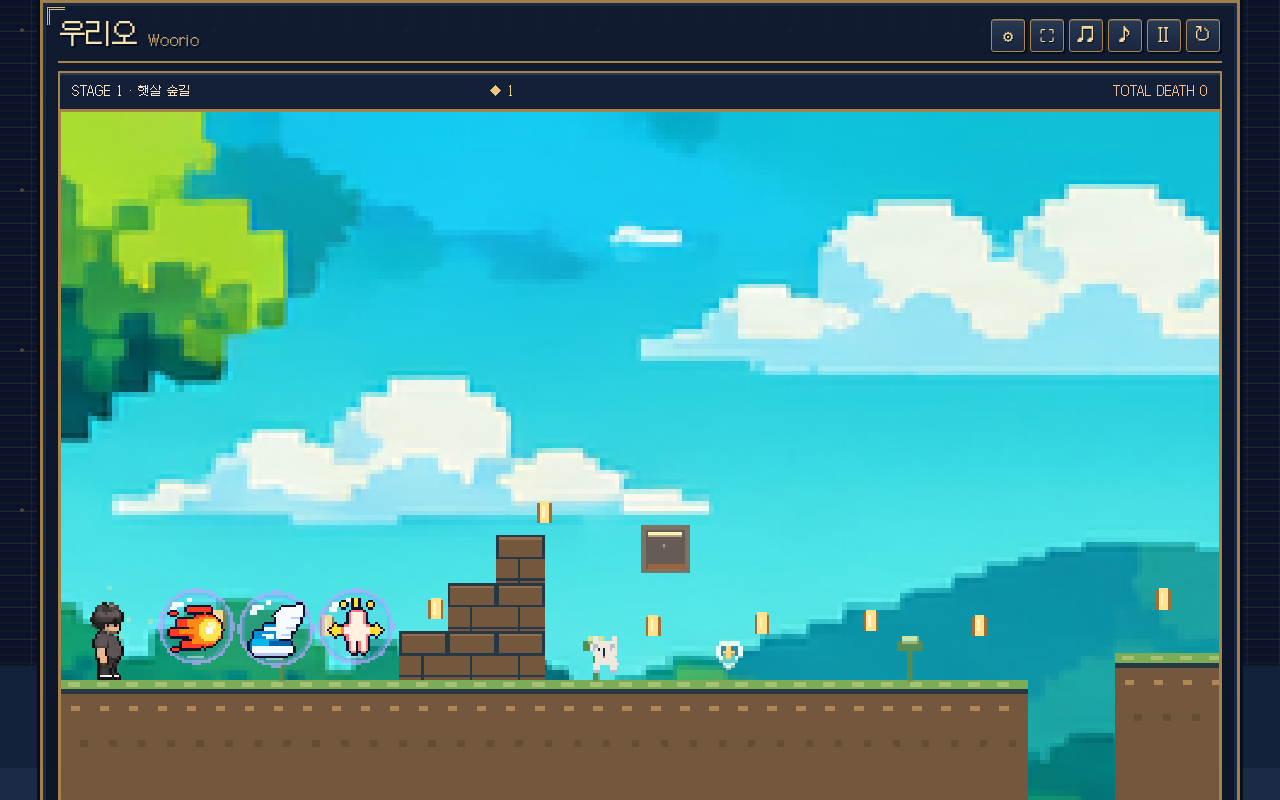
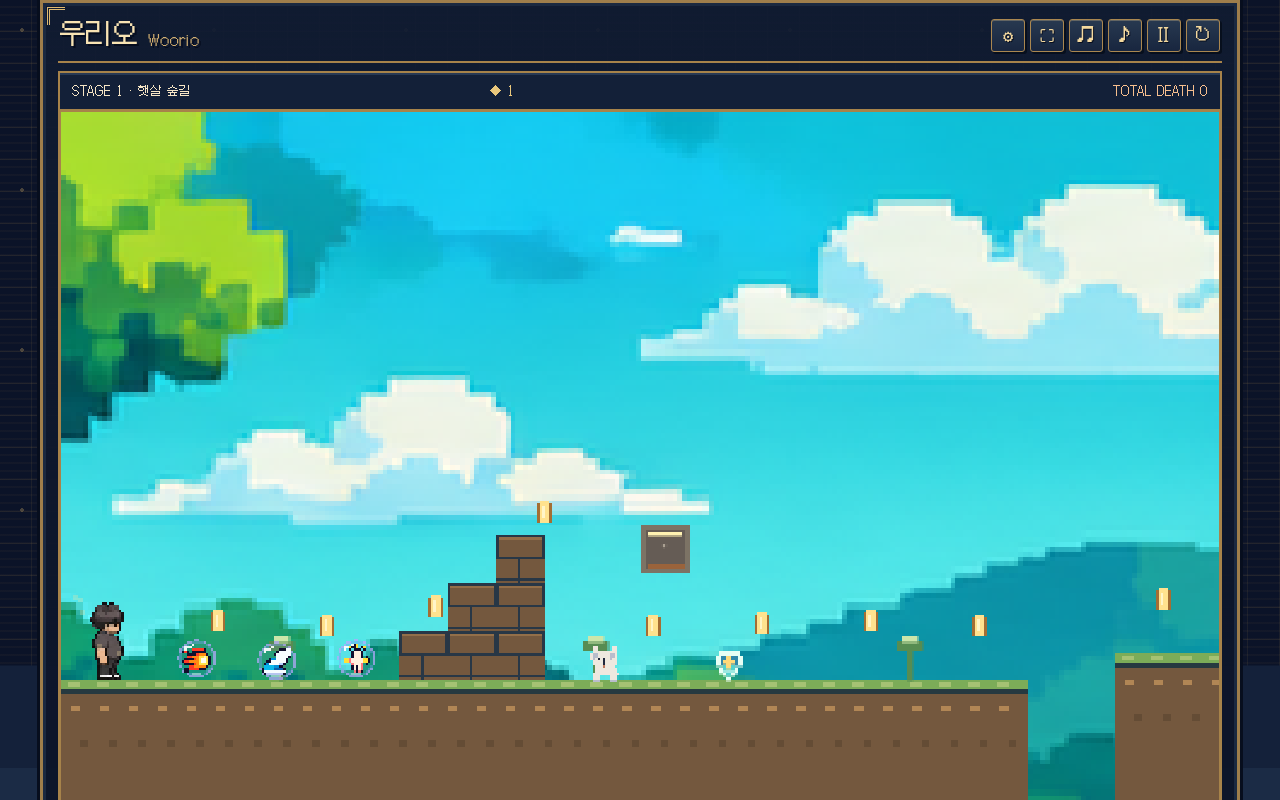
Restore compact pickup size and apply items immediately on contact

Changed region(s): [[0.125, 0.7188, 0.3125, 0.8438], [0.4375, 0.7812, 0.5, 0.8438], [0.5625, 0.7812, 0.5938, 0.8438]]

diff --git a/dist/adventure.js b/dist/adventure.js
@@ -191,6 +191,7 @@ function fire(){const special=world.boss&&world.boss.hp>0&&player.bossAmmo>0;if(
  if(special)player.bossAmmo--;
  world.shots.push({x:player.x+player.w/2,y:player.y+player.h*.45,w:special?22:12,h:special?20:12,vx:player.facing*(special?550:480),vy:special?-45:-70,life:special?1.4:.70,hostile:false,bossAttack:!!special});
  effect('shot');updateHud()}
+function collectItem(item){item.taken=true;itemSprites?.pop(item);grant(item.type)}
 function tick(dt){if(!running||paused)return;time+=dt;if(deathPhase){advanceDeath(dt);return}itemSprites?.step(dt);const old={...player};player.land=Math.max(0,(player.land||0)-dt);noticeTime=Math.max(0,noticeTime-dt);if(!noticeTime&&$('notice').textContent)$('notice').textContent='';
  for(const p of world.platforms){p.oldX=p.x;p.oldY=p.y;p.bump=Math.max(0,(p.bump||0)-dt);if(p.moving)p.x=p.baseX+Math.sin(time*1.1+p.phase)*58;if(p.elevator)p.y=p.baseY+Math.sin(time*1.2+p.phase)*50;if(p.crumble&&!p.broken&&p.collapseTime>0){p.collapseTime-=dt;if(p.collapseTime<=0){p.broken=true;p.fallAge=0;p.fallOffset=0;p.fallX=p.x;p.fallY=p.y;burst(p.x+p.w/2,p.y,'#cdb49a',5)}}if(p.fallAge!==undefined&&p.fallAge<.34){p.fallAge=Math.min(.34,p.fallAge+dt);p.fallOffset=520*p.fallAge+900*p.fallAge*p.fallAge;}}
  for(const sw of world.switches){if(sw.routeSeal&&!sw.hinted&&player.x>sw.gate.x-200&&player.x<sw.gate.x&&sw.time<=0){notice('↓ 지상 발판을 밟으면 통로가 열려!');sw.hinted=true;}if(sw.time>0){sw.time=Math.max(0,sw.time-dt);sw.gate.broken=sw.gate.destroyed||sw.time>0||overlap(player,sw.gate)}}
@@ -235,7 +236,7 @@ function tick(dt){if(!running||paused)return;time+=dt;if(deathPhase){advanceDeat
  player.invulnerable=Math.max(0,player.invulnerable-dt);
  for(const spike of world.hazards)if(!spike.broken&&overlap(player,spike)){if(spike.pulse&&Math.sin(time*2+spike.phase)<.25)continue;if(player.power==='giant'){spike.broken=true;burst(spike.x+spike.w/2,spike.y+10,'#f5cf8a',8);sfx(480)}else{die('spike');return}}
  for(const saw of world.saws)if(!saw.broken){const dx=saw.x-clamp(saw.x,player.x,player.x+player.w),dy=saw.y-clamp(saw.y,player.y,player.y+player.h);if(dx*dx+dy*dy<saw.r*saw.r){if(player.power==='giant'){saw.broken=true;burst(saw.x,saw.y,'#d9dbe4',16);sfx(170)}else{die();return}}}
- for(const item of world.items){if(item.taken)continue;item.age+=dt;const oy=item.y;item.vy+=700*dt;item.y+=item.vy*dt;for(const p of world.platforms)if(!p.broken&&item.vy>=0&&oy+item.h<=p.y+2&&item.y+item.h>=p.y&&item.x+item.w>p.x&&item.x<p.x+p.w){item.y=p.y-item.h;item.vy=0}if(item.age>.24&&overlap(player,item)){item.taken=true;itemSprites?.pop(item);grant(item.type)}}
+ for(const item of world.items){if(item.taken)continue;if(overlap(player,item)){collectItem(item);continue}item.age+=dt;const oy=item.y;item.vy+=700*dt;item.y+=item.vy*dt;for(const p of world.platforms)if(!p.broken&&item.vy>=0&&oy+item.h<=p.y+2&&item.y+item.h>=p.y&&item.x+item.w>p.x&&item.x<p.x+p.w){item.y=p.y-item.h;item.vy=0}if(overlap(player,item))collectItem(item)}
  for(const token of world.bossPickups){if(token.used){token.reset-=dt;if(token.reset<=0)token.used=false;continue}
   if(overlap(player,{x:token.x,y:token.y,w:28,h:28})){token.used=true;token.reset=3.8;player.bossAmmo=Math.min(4,player.bossAmmo+2);burst(token.x+12,token.y+12,'#fbd17b',11);sfx(850);updateHud()}}
  for(const c of world.coins)if(!c.taken&&Math.hypot(player.x+player.w/2-c.x,player.y+player.h*.5-c.y)<(player.petGold?155:player.pet?105:player.w/2+20)){c.taken=true;coins++;burst(c.x,c.y,'#ffe59b',5);sfx(700);updateHud()}

diff --git a/dist/woorio-item-sprites.js b/dist/woorio-item-sprites.js
@@ -31,15 +31,15 @@
   }
   function bubble(){if(cache.has('bubble'))return cache.get('bubble');const c=canvas(32,32),g=c.getContext('2d');for(let y=0;y<32;y++)for(let x=0;x<32;x++){const d=Math.hypot(x-15.5,y-15.5);if(d>15.6)continue;g.fillStyle=d>14.4?'#b7a8ffb8':d>13.3?'#809ff969':'#739ff01a';g.fillRect(x,y,1,1)}g.fillStyle='#ffffffeb';g.fillRect(6,6,5,2);g.fillRect(5,8,3,2);g.fillRect(12,4,2,2);g.fillStyle='#e2f2ff8a';g.fillRect(12,28,7,1);cache.set('bubble',c);return c;}
   function freeClip(ctx,x,y,w,h,platforms){for(const p of platforms)if(!p.broken&&x+w>p.x&&x<p.x+p.w&&y+h>p.y&&y<p.y+p.h){ctx.beginPath();ctx.rect(x,y,w,h);ctx.rect(p.x,p.y,p.w,p.h);ctx.clip('evenodd');}}
-  function drawPickup(ctx,item,time,platforms=[]){const art=icon(item.type);if(!art)return false;const x=Math.round((item.x-20)/2)*2,y=Math.round((item.y-40-(2+Math.sin(time*2.7+item.x)*2))/2)*2;
+  function drawPickup(ctx,item,time,platforms=[]){const art=icon(item.type);if(!art)return false;const x=Math.round((item.x-4)/2)*2,y=Math.round((item.y-8-(1+Math.sin(time*2.7+item.x)))/2)*2;
    ctx.save();ctx.imageSmoothingEnabled=false;
    // Visual-only clipping: bobbing/bubble can never paint into a solid tile.
-   freeClip(ctx,x-2,y-2,68,68,platforms);
-   ctx.drawImage(bubble(),x,y,64,64);ctx.drawImage(art,x+8,y+8,48,48);if(Math.sin(time*2+item.x)>.92){ctx.fillStyle='#ffffffbb';ctx.fillRect(x+50,y+14,2,6);ctx.fillRect(x+48,y+16,6,2);}ctx.restore();return true;
+   freeClip(ctx,x-2,y-2,36,36,platforms);
+   ctx.drawImage(bubble(),x,y,32,32);ctx.drawImage(art,x+4,y+4,24,24);if(Math.sin(time*2+item.x)>.92){ctx.fillStyle='#ffffffbb';ctx.fillRect(x+25,y+7,1,3);ctx.fillRect(x+24,y+8,3,1);}ctx.restore();return true;
   }
-  function pop(item){if(!types.includes(item.type))return;pops.push({x:item.x+12,y:item.y-8,age:0});if(pops.length>12)pops.shift()}
+  function pop(item){if(!types.includes(item.type))return;pops.push({x:item.x+12,y:item.y+8,age:0});if(pops.length>12)pops.shift()}
   function step(dt){for(const p of pops)p.age+=dt;for(let i=pops.length-1;i>=0;i--)if(pops[i].age>=.24)pops.splice(i,1)}
-  function drawPops(ctx,platforms=[]){ctx.save();for(const p of pops){ctx.save();freeClip(ctx,p.x-44,p.y-44,88,88,platforms);ctx.globalAlpha=1-p.age/.24;ctx.fillStyle='#d7ecff';const r=28+p.age*50;for(let i=0;i<8;i++){const a=i*Math.PI/4;ctx.fillRect(Math.round((p.x+Math.cos(a)*r)/2)*2,Math.round((p.y+Math.sin(a)*r)/2)*2,4,4)}ctx.restore()}ctx.restore()}
+  function drawPops(ctx,platforms=[]){ctx.save();for(const p of pops){ctx.save();freeClip(ctx,p.x-26,p.y-26,52,52,platforms);ctx.globalAlpha=1-p.age/.24;ctx.fillStyle='#d7ecff';const r=14+p.age*30;for(let i=0;i<8;i++){const a=i*Math.PI/4;ctx.fillRect(Math.round((p.x+Math.cos(a)*r)/2)*2,Math.round((p.y+Math.sin(a)*r)/2)*2,2,2)}ctx.restore()}ctx.restore()}
   return{icon,bubble,drawPickup,pop,step,drawPops,reset(){pops.length=0},get popCount(){return pops.length},get cacheSize(){return cache.size}};
  }
  return{types,create};

diff --git a/docs/WOORIO-ITEM-BUBBLES.md b/docs/WOORIO-ITEM-BUBBLES.md
@@ -73,3 +73,14 @@ Deploymentappgdep_6aee8da8ab388191ada63a5a97ab3768.
 URLhttps://woojingame.asnt1.chatgpt.site/#adventure.
 Sprite regression unit rerun PASS;product unchanged from tested feature commit.
 Native publication success confirmed;physical Samsung playthrough not claimed.
+
+## Size / immediate pickup correction — latest behavior
+Owner feedback afterv40:icons were too large. Display now24logical(icon),32logical
+(bubble),half ofv40's48/64;24x24hitbox unchanged. This supersedes the larger-display
+notes above. At390wide this is approximately14pxicon/19pxbubble,similar to old pickups.
+Removed the.24second collection age gate for ALL5types. Test overlap before physics
+integration and after movement,so an item already touching at spawn is collected on
+that first simulation tick even if its upward velocity would move it away.
+PASS woorio-instant-pickup(all5age-zero grants),woorio-item-sprites,ability duration,
+item-bubbles browser andrun-shield browser. Updated mobile screenshot opened.
+Owner requests publication;audience retained. No other ability/save changes.
